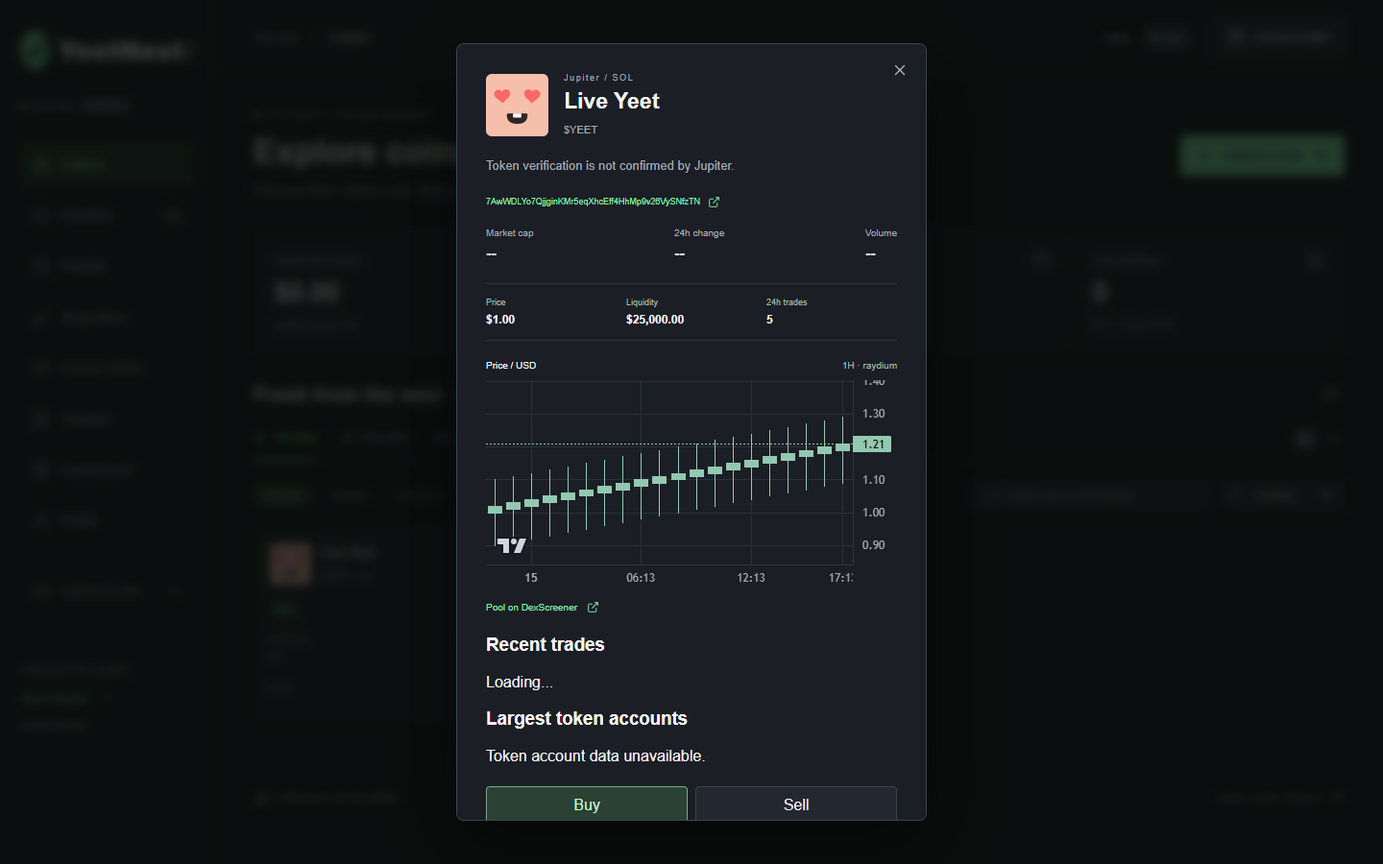
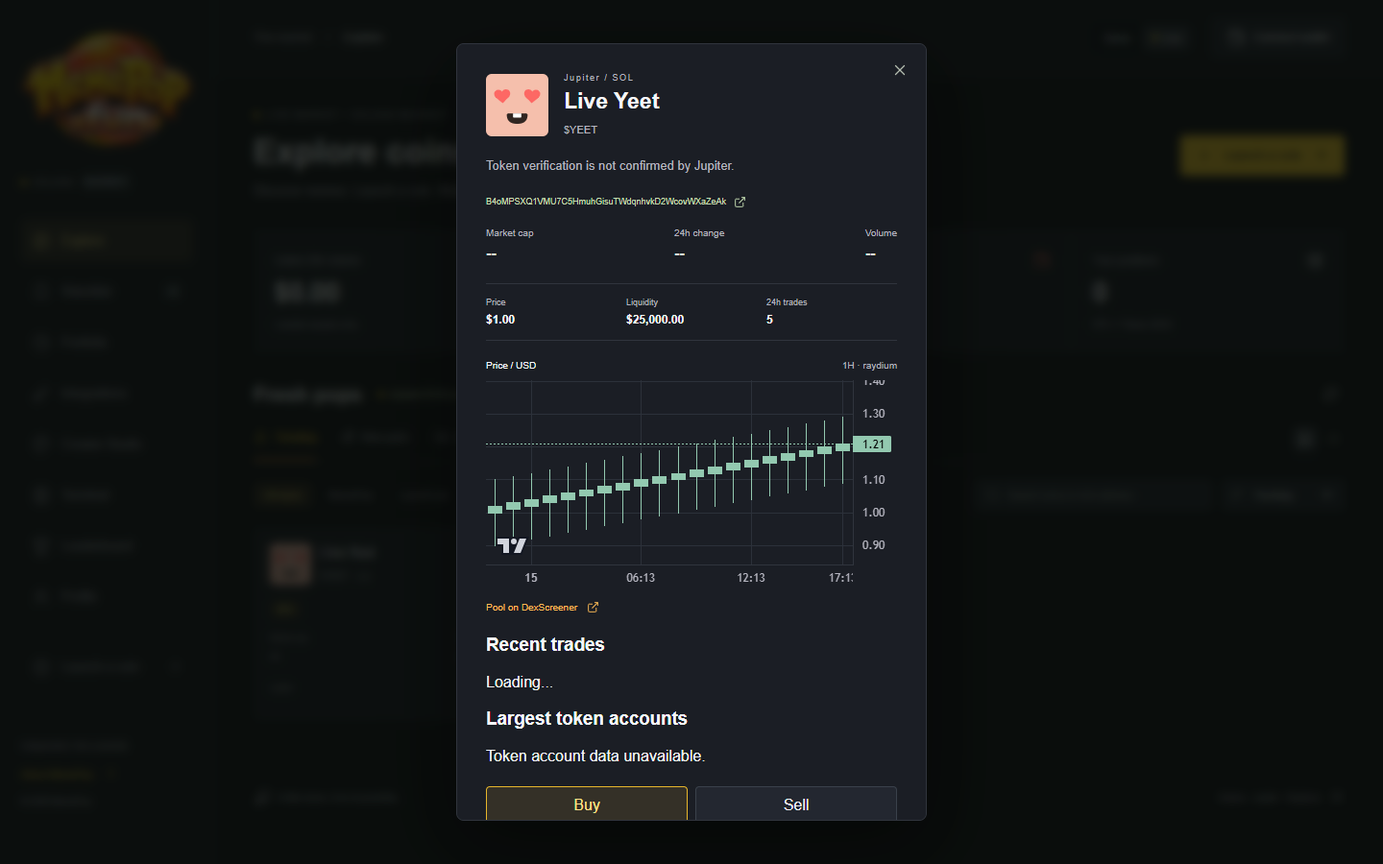
change to memepop

diff --git a/src/main.js b/src/main.js
@@ -1,4 +1,5 @@
 import { createIcons, icons } from "./ui-icons.js";
+import brandLogo from '../logo.png';
 import { createAvatar } from "@dicebear/core";
 import * as bottts from "@dicebear/bottts-neutral";
 import * as chain from "./chain.js";
@@ -51,7 +52,7 @@ let demoCoins = read(
       volume: t[5],
       progress: t[6],
       art: t[7],
-      description: "A meme with a mission. Welcome to the nest.",
+      description: "A meme with a mission. Welcome to MemePop.",
     })),
   ),
 );
@@ -160,7 +161,7 @@ function filtered() {
             .toLowerCase()
             .includes(query.toLowerCase())) &&
         (category === "All coins" ||
-          (mode === 'live' && category === 'YeetNest' && t.source === 'YeetNest') ||
+          (mode === 'live' && category === 'MemePop' && t.source === 'MemePop') ||
           (mode === 'live' && category === 'LaunchLab' && Boolean(t.poolId)) ||
           (mode === 'live' && category === 'Market' && !t.poolId) ||
           (mode === 'demo' && (category === "Stocks"
@@ -191,7 +192,7 @@ function render() {
     volume = coins.reduce((sum, c) => sum + (c.volume || 0), 0),
     address = chain.publicKey?.toBase58();
   document.querySelector("#app").innerHTML =
-    `<aside class="sidebar"><a class="brand" href="#" aria-label="YeetNest home"><span class="brand-mark">${I("bird")}</span><span>YeetNest<span class="brand-dot">/</span></span></a><div class="network"><span class="live-dot"></span> SOLANA <b>MAINNET</b></div><nav>${[
+    `<aside class="sidebar"><a class="brand" href="#" aria-label="MemePop home"><img class="brand-logo" src="${brandLogo}" alt="MemePop" width="180" height="120"/></a><div class="network"><span class="live-dot"></span> SOLANA <b>MAINNET</b></div><nav>${[
       ["Explore", "compass"],
       ["Watchlist", "bookmark"],
       ["Portfolio", "chart-pie"],
@@ -203,11 +204,11 @@ function render() {
       )
       .join(
         "",
-      )}<button class="nav-item" data-launch title="Launch a coin">${I("circle-plus")}<span>Launch a coin</span>${I("arrow-up-right")}</button></nav><div class="sidebar-note"><span class="little-egg">${I("egg")}</span><h3>Small beginnings.<br>Big yeet energy.</h3><p>Your next idea belongs here.</p><button data-launch>Build your nest ${I("arrow-up-right")}</button></div><div class="sidebar-bottom"><span>Independent. Non-custodial.</span><button id="help">About YeetNest ${I("arrow-up-right")}</button><span>© 2026 YeetNest</span></div></aside><main><header><div class="breadcrumb">The nest <span>/</span> <b>${page}</b></div><div class="header-right"><div class="mode-switch" aria-label="Trading environment"><button data-mode="demo" class="${mode === "demo" ? "active" : ""}">Demo</button><button data-mode="live" class="${mode === "live" ? "active" : ""}"><span class="live-dot"></span> Live</button></div><button class="wallet" id="wallet">${I("wallet")} ${connected() ? (mode === "demo" ? `${demoBalance.toFixed(2)} SOL · Demo` : esc(short(address))) : "Connect wallet"}</button></div></header><div class="content">${
+      )}<button class="nav-item" data-launch title="Launch a coin">${I("circle-plus")}<span>Launch a coin</span>${I("arrow-up-right")}</button></nav><div class="sidebar-note"><span class="little-egg">${I("egg")}</span><h3>Small beginnings.<br>Big yeet energy.</h3><p>Your next idea belongs here.</p><button data-launch>Build your nest ${I("arrow-up-right")}</button></div><div class="sidebar-bottom"><span>Independent. Non-custodial.</span><button id="help">About MemePop ${I("arrow-up-right")}</button><span>© 2026 MemePop</span></div></aside><main><header><div class="breadcrumb">The market <span>/</span> <b>${page}</b></div><div class="header-right"><div class="mode-switch" aria-label="Trading environment"><button data-mode="demo" class="${mode === "demo" ? "active" : ""}">Demo</button><button data-mode="live" class="${mode === "live" ? "active" : ""}"><span class="live-dot"></span> Live</button></div><button class="wallet" id="wallet">${I("wallet")} ${connected() ? (mode === "demo" ? `${demoBalance.toFixed(2)} SOL · Demo` : esc(short(address))) : "Connect wallet"}</button></div></header><div class="content">${
       page === "Integrations"
         ? integrations()
         : `
-  <div class="heading"><div><div class="eyebrow"><span class="live-dot"></span> ${mode === "demo" ? "DEMO NEST / SAMPLE MARKET" : "LIVE NEST / SOLANA MAINNET"}</div><h1>${page === "Explore" ? "Where memes take flight." : page === "Watchlist" ? "On your radar." : "Your nest egg."}</h1><p>${page === "Explore" ? "Find your flock. Hatch a coin. Make your move." : page === "Watchlist" ? "The coins you are keeping close." : mode === "live" ? "On-chain balances from your connected wallet." : "Your demo positions, all in one place."}</p></div><button class="primary" data-launch>${I("plus")} Launch a coin ${I("arrow-up-right")}</button></div>
+  <div class="heading"><div><div class="eyebrow"><span class="live-dot"></span> ${mode === "demo" ? "DEMO MARKET / SAMPLE MARKET" : "LIVE MARKET / SOLANA MAINNET"}</div><h1>${page === "Explore" ? "Find your next big pop." : page === "Watchlist" ? "On your radar." : "Your portfolio."}</h1><p>${page === "Explore" ? "Discover memes. Launch a coin. Make your move." : page === "Watchlist" ? "The coins you are keeping close." : mode === "live" ? "On-chain balances from your connected wallet." : "Your demo positions, all in one place."}</p></div><button class="primary" data-launch>${I("plus")} Launch a coin ${I("arrow-up-right")}</button></div>
   <section class="stats">${[
     [
       "Listed 24h volume",
@@ -216,9 +217,9 @@ function render() {
       "chart-no-axes-combined",
     ],
     [
-      "Coins in the nest",
+      "Listed coins",
       String(coins.length),
-      mode === "demo" ? "Demo catalogue" : "Jupiter + YeetNest launches",
+      mode === "demo" ? "Demo catalogue" : "Jupiter + MemePop launches",
       "egg",
     ],
     [
@@ -243,8 +244,8 @@ function render() {
         `<div class="stat"><div>${a}${I(d)}</div><strong>${b}</strong><span>${c}</span></div>`,
     )
     .join("")}</section>
-  ${page === "Explore" ? `<section class="feature"><div class="feature-copy"><span class="label">${mode === "demo" ? "FROM THE NEST" : "MARKET SPOTLIGHT"}</span><h2>${spotlight ? esc(spotlight.name) : "Ready for takeoff."}</h2><p>${mode === "demo" ? "One small meme. A whole new flock." : spotlight ? `${esc(spotlight.source)} · ${spotlight.verified ? "Verified token" : "Check the mint address"}` : "Explore on-chain coins or hatch your own."}</p><button id="spotlight">${spotlight ? `Explore $${esc(spotlight.ticker)}` : "Explore live coins"} ${I("arrow-up-right")}</button></div><div class="feature-art">${spotlight ? art(spotlight) : `<div class="empty-art">${I("egg")}</div>`}<span class="floating-tag tag-one">${I("feather")} JUST HATCHED</span><span class="floating-tag tag-two">${spotlight?.change != null ? `${spotlight.change > 0 ? "+" : ""}${spotlight.change.toFixed(2)}%` : "YEETNEST"} ${I("arrow-up-right")}</span></div><div class="feature-market"><span class="label">${spotlight?.cap != null ? "MARKET CAP" : "YOUR NEXT LAUNCH"}</span><strong>${spotlight?.cap != null ? money(spotlight.cap) : "Starts here."}</strong><p>${mode === "demo" ? "Sample market" : "Provider market data"}</p><div class="nest-lines">${I("bird")}${I("move-up-right")}</div><span class="paired">${spotlight?.mint ? `<a href="https://solscan.io/token/${esc(spotlight.mint)}" target="_blank" rel="noopener noreferrer">${esc(short(spotlight.mint))} ${I("external-link")}</a>` : "Hatch something worth watching."}</span></div></section>` : ""}
-<section class="market"><div class="market-heading"><h2>${page === "Explore" ? "Fresh from the nest" : page}</h2><span class="live-label"><span class="live-dot"></span> ${mode === "demo" ? "Sample market" : lastUpdated ? `Updated ${new Date(lastUpdated).toLocaleTimeString([], { hour: "2-digit", minute: "2-digit" })}` : "Provider data"}</span><button id="refresh" class="icon-button" title="Refresh market">${I("refresh-cw")}</button></div><div class="tabs">${["Trending", "New pairs", "About to graduate", "Graduated"].map((n) => `<button class="${tab === n ? "selected" : ""}" data-tab="${n}">${I(n === "Trending" ? "flame" : n === "New pairs" ? "sparkles" : n === "About to graduate" ? "graduation-cap" : "badge-check")}${n}</button>`).join("")}<div class="view-switch"><button data-view="grid" title="Grid view" class="${view === "grid" ? "selected" : ""}">${I("layout-grid")}</button><button data-view="list" title="List view" class="${view === "list" ? "selected" : ""}">${I("list")}</button></div></div><div class="filters"><div class="categories">${(mode === "live" ? ["All coins", "YeetNest", "LaunchLab", "Market"] : ["All coins", "Stocks", "Crypto", "Pre-IPO"]).map((n) => `<button data-category="${n}" class="${category === n ? "chosen" : ""}">${n}</button>`).join("")}</div><div class="search-sort"><label class="search">${I("search")}<input id="search" aria-label="Search coins" placeholder="Search coins or mint address" value="${esc(query)}"/></label><label class="sort">${I("arrow-down-wide-narrow")}<select id="sort" aria-label="Sort coins"><option>Trending</option><option>Market cap</option><option>Volume</option><option>Top gainers</option></select></label></div></div>${liveError && mode === "live" ? `<div class="notice error">${I("circle-alert")}<span>${esc(liveError)}</span><button id="retry">Retry</button></div>` : ""}${mode === "live" && page === "Portfolio" && !chain.publicKey ? `<div class="notice">${I("wallet")} Connect a wallet to load your real holdings.</div>` : ""}<div id="coins" class="coins ${view}"></div></section>`
+  ${page === "Explore" ? `<section class="feature"><div class="feature-copy"><span class="label">${mode === "demo" ? "FROM THE NEST" : "MARKET SPOTLIGHT"}</span><h2>${spotlight ? esc(spotlight.name) : "Ready for takeoff."}</h2><p>${mode === "demo" ? "One small meme. A whole new flock." : spotlight ? `${esc(spotlight.source)} · ${spotlight.verified ? "Verified token" : "Check the mint address"}` : "Explore on-chain coins or hatch your own."}</p><button id="spotlight">${spotlight ? `Explore $${esc(spotlight.ticker)}` : "Explore live coins"} ${I("arrow-up-right")}</button></div><div class="feature-art">${spotlight ? art(spotlight) : `<div class="empty-art">${I("egg")}</div>`}<span class="floating-tag tag-one">${I("feather")} JUST HATCHED</span><span class="floating-tag tag-two">${spotlight?.change != null ? `${spotlight.change > 0 ? "+" : ""}${spotlight.change.toFixed(2)}%` : "MEMEPOP"} ${I("arrow-up-right")}</span></div><div class="feature-market"><span class="label">${spotlight?.cap != null ? "MARKET CAP" : "YOUR NEXT LAUNCH"}</span><strong>${spotlight?.cap != null ? money(spotlight.cap) : "Starts here."}</strong><p>${mode === "demo" ? "Sample market" : "Provider market data"}</p><div class="nest-lines">${I("bird")}${I("move-up-right")}</div><span class="paired">${spotlight?.mint ? `<a href="https://solscan.io/token/${esc(spotlight.mint)}" target="_blank" rel="noopener noreferrer">${esc(short(spotlight.mint))} ${I("external-link")}</a>` : "Hatch something worth watching."}</span></div></section>` : ""}
+<section class="market"><div class="market-heading"><h2>${page === "Explore" ? "Fresh pops" : page}</h2><span class="live-label"><span class="live-dot"></span> ${mode === "demo" ? "Sample market" : lastUpdated ? `Updated ${new Date(lastUpdated).toLocaleTimeString([], { hour: "2-digit", minute: "2-digit" })}` : "Provider data"}</span><button id="refresh" class="icon-button" title="Refresh market">${I("refresh-cw")}</button></div><div class="tabs">${["Trending", "New pairs", "About to graduate", "Graduated"].map((n) => `<button class="${tab === n ? "selected" : ""}" data-tab="${n}">${I(n === "Trending" ? "flame" : n === "New pairs" ? "sparkles" : n === "About to graduate" ? "graduation-cap" : "badge-check")}${n}</button>`).join("")}<div class="view-switch"><button data-view="grid" title="Grid view" class="${view === "grid" ? "selected" : ""}">${I("layout-grid")}</button><button data-view="list" title="List view" class="${view === "list" ? "selected" : ""}">${I("list")}</button></div></div><div class="filters"><div class="categories">${(mode === "live" ? ["All coins", "MemePop", "LaunchLab", "Market"] : ["All coins", "Stocks", "Crypto", "Pre-IPO"]).map((n) => `<button data-category="${n}" class="${category === n ? "chosen" : ""}">${n}</button>`).join("")}</div><div class="search-sort"><label class="search">${I("search")}<input id="search" aria-label="Search coins" placeholder="Search coins or mint address" value="${esc(query)}"/></label><label class="sort">${I("arrow-down-wide-narrow")}<select id="sort" aria-label="Sort coins"><option>Trending</option><option>Market cap</option><option>Volume</option><option>Top gainers</option></select></label></div></div>${liveError && mode === "live" ? `<div class="notice error">${I("circle-alert")}<span>${esc(liveError)}</span><button id="retry">Retry</button></div>` : ""}${mode === "live" && page === "Portfolio" && !chain.publicKey ? `<div class="notice">${I("wallet")} Connect a wallet to load your real holdings.</div>` : ""}<div id="coins" class="coins ${view}"></div></section>`
     }<footer><span>${I("feather")} A little chaos. A lot of possibility.</span><span>${mode === "demo" ? "Demo environment" : "Solana · Jupiter · Raydium"} ${I("arrow-up-right")}</span></footer></div></main><div id="modal-root"></div><div id="toast" role="status"></div>`;
   if (page !== "Integrations") {
     document.querySelector("#sort").value = sort;
@@ -327,7 +328,7 @@ const parity = [
   [
     "Fee / launch customization",
     "Unfinished",
-    "YeetNest platform config, selectable fees, initial buy / bundles",
+    "MemePop platform config, selectable fees, initial buy / bundles",
   ],
   [
     "Buyback / burn flywheel",
@@ -346,7 +347,7 @@ const parity = [
   ],
 ];
 function integrations() {
-  return `<div class="heading"><div><div class="eyebrow">CONNECTED INFRASTRUCTURE</div><h1>The foundations of the nest.</h1><p>Provider status and feature availability.</p></div><button class="primary" id="check-status">${I("refresh-cw")} Check status</button></div><div class="provider-grid">${[
+  return `<div class="heading"><div><div class="eyebrow">CONNECTED INFRASTRUCTURE</div><h1>Connected infrastructure.</h1><p>Provider status and feature availability.</p></div><button class="primary" id="check-status">${I("refresh-cw")} Check status</button></div><div class="provider-grid">${[
     [
       "Jupiter",
       "Swaps + token discovery",
@@ -384,7 +385,7 @@ function integrations() {
     )
     .join(
       "",
-    )}</div><section class="parity"><h2>StonkFun feature parity</h2><p>Reference access is incomplete. These gaps are based on published launch documentation, not a full audit of StonkFun.</p><div class="table-wrap"><table><thead><tr><th>Feature</th><th>YeetNest status</th><th>Remaining work</th></tr></thead><tbody>${parity.map(([a, b, c]) => `<tr><td>${a}</td><td><span class="status-pill ${b === "Unfinished" ? "pending" : ""}">${b}</span></td><td>${c}</td></tr>`).join("")}</tbody></table></div><a class="source-link" href="https://docs.sumo.trade/launch-tokens/stonkfun-launch" target="_blank" rel="noopener noreferrer">Published StonkFun launch documentation ${I("external-link")}</a></section>`;
+    )}</div><section class="parity"><h2>StonkFun feature parity</h2><p>Reference access is incomplete. These gaps are based on published launch documentation, not a full audit of StonkFun.</p><div class="table-wrap"><table><thead><tr><th>Feature</th><th>MemePop status</th><th>Remaining work</th></tr></thead><tbody>${parity.map(([a, b, c]) => `<tr><td>${a}</td><td><span class="status-pill ${b === "Unfinished" ? "pending" : ""}">${b}</span></td><td>${c}</td></tr>`).join("")}</tbody></table></div><a class="source-link" href="https://docs.sumo.trade/launch-tokens/stonkfun-launch" target="_blank" rel="noopener noreferrer">Published StonkFun launch documentation ${I("external-link")}</a></section>`;
 }
 let discoveryPage = 0;
 function drawCoins() {
@@ -402,7 +403,7 @@ function drawCoins() {
         return `<article class="coin" data-coin="${esc(t.id)}" tabindex="0" aria-label="Open ${esc(t.name)}"><div class="coin-top">${art(t)}<div class="coin-title"><h3 title="${esc(t.name)}">${esc(t.name)}</h3><span>$${esc(t.ticker)} <span class="age">${mode === "demo" ? "Demo" : t.verified ? "Verified" : "Live"}</span></span></div><button class="save ${watchlist.includes(String(t.id)) ? "saved" : ""}" data-save="${esc(t.id)}" title="${watchlist.includes(String(t.id)) ? "Remove from" : "Add to"} watchlist">${I("bookmark")}</button></div><div class="pair-row"><span class="pair">${t.poolId ? "LAUNCHLAB" : esc(t.pair)}</span><span class="change ${t.change < 0 ? "negative" : ""}">${t.change == null ? "--" : `${t.change > 0 ? "+" : ""}${t.change.toFixed(2)}%`}${I(t.change < 0 ? "trending-down" : "trending-up")}</span></div><div class="coin-numbers"><div><span>Market cap</span><b>${money(t.cap)}</b></div><div><span>24h volume</span><b>${money(t.volume)}</b></div></div>${page === "Portfolio" && holding ? `<div class="holding">${mode === "demo" ? `${holding.amount.toFixed(4)} SOL allocated` : `${esc(fromUnits(holding.amount, holding.decimals))} ${esc(t.ticker)}`}</div>` : `<div class="curve-label"><span>${t.progress == null ? esc(t.source || "Sample") : "Bonding curve"}</span><b>${t.progress == null ? I("arrow-up-right") : `${t.progress.toFixed(0)}%`}</b></div>${t.progress != null ? `<div class="progress"><span style="width:${Math.min(t.progress, 100)}%"></span></div>` : ""}`}</article>`;
       })
       .join("") ||
-    `<div class="empty">${I(loading ? "loader-circle" : "egg")}<h3>${loading ? "Loading the nest..." : page === "Portfolio" ? "Your nest is waiting." : "Nothing in this nest yet."}</h3><p>${loading ? "Fetching provider data." : mode === "live" && tab !== "Trending" && tab !== "New pairs" ? "Graduation filters cover registered YeetNest LaunchLab coins only." : "Try another search, or hatch something new."}</p></div>`;
+    `<div class="empty">${I(loading ? "loader-circle" : "egg")}<h3>${loading ? "Loading MemePop..." : page === "Portfolio" ? "Your portfolio is waiting." : "No coins here yet."}</h3><p>${loading ? "Fetching provider data." : mode === "live" && tab !== "Trending" && tab !== "New pairs" ? "Graduation filters cover registered MemePop LaunchLab coins only." : "Try another search, or launch something new."}</p></div>`;
   document.querySelectorAll("[data-coin]").forEach((el) => {
     el.onclick = () => detail(el.dataset.coin);
     el.onkeydown = (e) => {
@@ -519,7 +520,7 @@ function bind() {
   document.querySelector("#wallet").onclick = walletModal;
   document.querySelector("#help").onclick = () =>
     modal(
-      `<span class="eyebrow">HELLO, YEETNEST</span><h2>A home for your next meme.</h2><p>Demo coins and balances stay in this browser. Live transactions use Solana mainnet and require your wallet signature. Creator image updates change the YeetNest listing; the original on-chain metadata remains unchanged.</p><button class="primary full" id="see-integrations">View integrations</button>`,
+      `<span class="eyebrow">HELLO, MEMEPOP</span><h2>A home for your next meme.</h2><p>Demo coins and balances stay in this browser. Live transactions use Solana mainnet and require your wallet signature. Creator image updates change the MemePop listing; the original on-chain metadata remains unchanged.</p><button class="primary full" id="see-integrations">View integrations</button>`,
       () => {
         document.querySelector("#see-integrations").onclick = () => {
           page = "Integrations";
@@ -685,7 +686,7 @@ function inlineError(error) {
 function walletModal() {
   if (connected()) {
     modal(
-      `<span class="eyebrow">${mode === "demo" ? "DEMO WALLET" : "LIVE WALLET"}</span><h2>Your nest egg.</h2><p class="address">${mode === "demo" ? "Local demo wallet" : esc(chain.publicKey.toBase58())}</p><div class="wallet-balance">${mode === "demo" ? demoBalance.toFixed(4) : solBalance == null ? "--" : solBalance.toFixed(4)} <span>SOL</span></div><button class="secondary full" id="disconnect">Disconnect</button>`,
+      `<span class="eyebrow">${mode === "demo" ? "DEMO WALLET" : "LIVE WALLET"}</span><h2>Your portfolio.</h2><p class="address">${mode === "demo" ? "Local demo wallet" : esc(chain.publicKey.toBase58())}</p><div class="wallet-balance">${mode === "demo" ? demoBalance.toFixed(4) : solBalance == null ? "--" : solBalance.toFixed(4)} <span>SOL</span></div><button class="secondary full" id="disconnect">Disconnect</button>`,
       () => {
         document.querySelector("#disconnect").onclick = async () => {
           if (mode === "demo") demoWallet = false;
@@ -723,7 +724,7 @@ function walletModal() {
             const QRCode = await import('qrcode');
             const image = await QRCode.default.toDataURL(link, { width: 224, margin: 2, errorCorrectionLevel: 'M' });
             if (!root.isConnected) return;
-            root.innerHTML = `<h3>${esc(button.dataset.phoneWallet)} on phone</h3><span class="status-pill">Phone session</span><img class="wallet-qr" src="${image}" alt="Open YeetNest in ${esc(button.dataset.phoneWallet)} on your phone"/><a class="source-link" href="${esc(link)}" rel="noopener noreferrer">Open ${esc(button.dataset.phoneWallet)} ${I('arrow-up-right')}</a>`;
+            root.innerHTML = `<h3>${esc(button.dataset.phoneWallet)} on phone</h3><span class="status-pill">Phone session</span><img class="wallet-qr" src="${image}" alt="Open MemePop in ${esc(button.dataset.phoneWallet)} on your phone"/><a class="source-link" href="${esc(link)}" rel="noopener noreferrer">Open ${esc(button.dataset.phoneWallet)} ${I('arrow-up-right')}</a>`;
             createIcons({ icons });
           } catch(e) { if (root.isConnected) error.textContent = e.message; }
           finally { button.disabled = false; }
@@ -942,7 +943,7 @@ function launch() {
 }
 function reviewLaunch(prepared, metadata, d) {
   modal(
-    `<span class="eyebrow">LIVE LAUNCH / REVIEW</span><h2>Ready to leave the nest?</h2><div class="detail-heading"><img src="${esc(metadata.image)}" alt="${esc(d.name)}"/><div><h3>${esc(d.name)}</h3><span>$${esc(d.ticker.toUpperCase())}</span></div></div><div class="launch-terms"><span>Network <b>Solana mainnet</b></span><span>Supply <b>${prepared.supply}</b></span><span>Transactions <b>${prepared.transactions}</b></span><span>Initial buy <b>None</b></span></div><p class="address">Mint: ${esc(prepared.mint)}</p><p class="fine">Review transactions and network fees in your wallet. Raydium's default platform economics apply. Wallet confirmation submits a real token launch.</p><p class="form-error" id="form-error"></p><button class="primary full" id="sign-launch">${I("pen-line")} Sign and launch</button>`,
+    `<span class="eyebrow">LIVE LAUNCH / REVIEW</span><h2>Ready to make it pop?</h2><div class="detail-heading"><img src="${esc(metadata.image)}" alt="${esc(d.name)}"/><div><h3>${esc(d.name)}</h3><span>$${esc(d.ticker.toUpperCase())}</span></div></div><div class="launch-terms"><span>Network <b>Solana mainnet</b></span><span>Supply <b>${prepared.supply}</b></span><span>Transactions <b>${prepared.transactions}</b></span><span>Initial buy <b>None</b></span></div><p class="address">Mint: ${esc(prepared.mint)}</p><p class="fine">Review transactions and network fees in your wallet. Raydium's default platform economics apply. Wallet confirmation submits a real token launch.</p><p class="form-error" id="form-error"></p><button class="primary full" id="sign-launch">${I("pen-line")} Sign and launch</button>`,
     () => {
       document.querySelector("#sign-launch").onclick = async (e) => {
         const b = e.currentTarget;
@@ -1017,7 +1018,7 @@ function detail(id) {
       : coin.creator && coin.creator === chain.publicKey?.toBase58();
   let side = "Buy";
   modal(
-    `<div class="detail-heading">${art(coin)}<div><span class="eyebrow">${mode === "demo" ? "DEMO COIN" : esc(coin.source || "SOLANA")} / ${esc(coin.pair)}</span><h2>${esc(coin.name)}</h2><span class="muted">$${esc(coin.ticker)}</span></div>${owns ? `<button class="icon-button" id="edit-art" title="Change coin artwork">${I("image-plus")}</button>` : ""}</div><p class="coin-description">${esc(coin.description || "Welcome to the nest.")}</p>${coin.mint ? `<a class="mint-address" href="https://solscan.io/token/${esc(coin.mint)}" target="_blank" rel="noopener noreferrer">${esc(coin.mint)} ${I("external-link")}</a>` : ""}<div class="detail-stats"><span>Market cap<b>${money(coin.cap)}</b></span><span>24h change<b class="change ${coin.change < 0 ? "negative" : ""}">${coin.change == null ? "--" : `${coin.change.toFixed(2)}%`}</b></span><span>Volume<b>${money(coin.volume)}</b></span></div>${coin.progress != null ? `<div class="curve-summary"><span>Bonding curve</span><b>${coin.progress.toFixed(0)}%</b><div class="progress"><span style="width:${coin.progress}%"></span></div></div>` : ""}<form id="trade-form"><div class="trade-tabs"><button type="button" class="selected" data-side="Buy">Buy</button><button type="button" data-side="Sell">Sell</button></div><label id="amount-label"><span>Amount (SOL)</span><input name="amount" inputmode="decimal" placeholder="0.00" required pattern="[0-9]+([.][0-9]+)?"/></label><div class="quick-amounts">${[0.1, 0.5, 1, 2].map((n) => `<button type="button" data-amount="${n}">${n}</button>`).join("")}</div><p class="fine">${mode === "demo" ? "Simulated trade. No funds are transferred." : coin.poolId ? "Raydium bonding curve until graduation; Jupiter routing afterwards." : "Live Jupiter routing. Review the quote before signing."}</p><p class="form-error" id="form-error" role="alert"></p><button class="primary full" type="submit" id="trade-submit">${connected() ? (mode === "demo" ? `Demo buy $${esc(coin.ticker)}` : "Get live quote") : "Connect wallet"}</button></form>`,
+    `<div class="detail-heading">${art(coin)}<div><span class="eyebrow">${mode === "demo" ? "DEMO COIN" : esc(coin.source || "SOLANA")} / ${esc(coin.pair)}</span><h2>${esc(coin.name)}</h2><span class="muted">$${esc(coin.ticker)}</span></div>${owns ? `<button class="icon-button" id="edit-art" title="Change coin artwork">${I("image-plus")}</button>` : ""}</div><p class="coin-description">${esc(coin.description || "Welcome to MemePop.")}</p>${coin.mint ? `<a class="mint-address" href="https://solscan.io/token/${esc(coin.mint)}" target="_blank" rel="noopener noreferrer">${esc(coin.mint)} ${I("external-link")}</a>` : ""}<div class="detail-stats"><span>Market cap<b>${money(coin.cap)}</b></span><span>24h change<b class="change ${coin.change < 0 ? "negative" : ""}">${coin.change == null ? "--" : `${coin.change.toFixed(2)}%`}</b></span><span>Volume<b>${money(coin.volume)}</b></span></div>${coin.progress != null ? `<div class="curve-summary"><span>Bonding curve</span><b>${coin.progress.toFixed(0)}%</b><div class="progress"><span style="width:${coin.progress}%"></span></div></div>` : ""}<form id="trade-form"><div class="trade-tabs"><button type="button" class="selected" data-side="Buy">Buy</button><button type="button" data-side="Sell">Sell</button></div><label id="amount-label"><span>Amount (SOL)</span><input name="amount" inputmode="decimal" placeholder="0.00" required pattern="[0-9]+([.][0-9]+)?"/></label><div class="quick-amounts">${[0.1, 0.5, 1, 2].map((n) => `<button type="button" data-amount="${n}">${n}</button>`).join("")}</div><p class="fine">${mode === "demo" ? "Simulated trade. No funds are transferred." : coin.poolId ? "Raydium bonding curve until graduation; Jupiter routing afterwards." : "Live Jupiter routing. Review the quote before signing."}</p><p class="form-error" id="form-error" role="alert"></p><button class="primary full" type="submit" id="trade-submit">${connected() ? (mode === "demo" ? `Demo buy $${esc(coin.ticker)}` : "Get live quote") : "Connect wallet"}</button></form>`,
     () => {
       if (owns)
         document.querySelector("#edit-art").onclick = () => editArtwork(coin);
@@ -1156,7 +1157,7 @@ function transactionResult(title, signature, mint) {
 function editArtwork(coin) {
   let uploaded = "";
   modal(
-    `<span class="eyebrow">CREATOR STUDIO</span><h2>Give your coin a new look.</h2><form id="image-form"><label class="upload-control"><span class="upload-preview" id="upload-preview">${art(coin)}</span><span>New coin artwork<small>PNG, JPEG, WebP, GIF · up to 5 MB</small></span><input type="file" id="coin-image" accept="image/png,image/jpeg,image/webp,image/gif" required/></label><p class="fine">${mode === "demo" ? "Updates this browser’s demo listing." : "Only your creator wallet can update this YeetNest listing. Original on-chain metadata stays unchanged."}</p><p class="form-error" id="form-error" role="alert"></p><button class="primary full" type="submit">${I("image")} Save artwork</button></form>`,
+    `<span class="eyebrow">CREATOR STUDIO</span><h2>Give your coin a new look.</h2><form id="image-form"><label class="upload-control"><span class="upload-preview" id="upload-preview">${art(coin)}</span><span>New coin artwork<small>PNG, JPEG, WebP, GIF · up to 5 MB</small></span><input type="file" id="coin-image" accept="image/png,image/jpeg,image/webp,image/gif" required/></label><p class="fine">${mode === "demo" ? "Updates this browser’s demo listing." : "Only your creator wallet can update this MemePop listing. Original on-chain metadata stays unchanged."}</p><p class="form-error" id="form-error" role="alert"></p><button class="primary full" type="submit">${I("image")} Save artwork</button></form>`,
     () => {
       document.querySelector("#coin-image").onchange = async (e) => {
         try {
@@ -1221,7 +1222,7 @@ document.addEventListener(
     img.dataset.fallback = "true";
     img.title = "Artwork unavailable from the provider";
     img.src = createAvatar(bottts, {
-      seed: img.alt || "YeetNest",
+      seed: img.alt || "MemePop",
       backgroundColor: ["f5bfac"],
     }).toDataUri();
   },

diff --git a/src/pump-theme.css b/src/pump-theme.css
@@ -1,26 +1,26 @@
 :root {
   --ink: #f5f6f8;
-  --muted: #a4a9b3;
+  --muted: #b4b4bf;
   --line: #30343d;
-  --coral: #86efac;
-  --teal: #86efac;
+  --coral: #ffd52a;
+  --teal: #ffd52a;
   --surface: #1b1e25;
   --surface-raised: #242831;
   --chart-grid: #2c313a;
-  background: #13151a;
+  background: #111216;
   color: var(--ink);
 }
-.sidebar, header { background: #17191f; border-color: var(--line); }
-.brand-mark, .little-egg { background: #86efac; color: #112019; }
+.sidebar, header { background: #17181d; border-color: var(--line); }
+.brand-mark, .little-egg { background: #ffd52a; color: #171310; }
 .brand-dot, .source-link, .provider a, .sidebar-bottom button,
 .sidebar-note button, .tabs > button.selected, .save.saved,
-.coin-socials a, .feature-copy button { color: #86efac; }
-.nav-item.active, .nav-item.active:hover { background: #24362d; color: #a4f8bf; }
+.coin-socials a, .feature-copy button { color: #ffd52a; }
+.nav-item.active, .nav-item.active:hover { background: #34302a; color: #ffe88b; }
 .nav-item:hover { background: #262a32; }
 .nav-item small, .nav-item.active small, .network b { background: #2c3336; color: #d4dce1; }
-.network .live-dot, .mode-switch .live-dot { background: #86efac; }
-.primary, .creator-actions .primary { background: #86efac; color: #102017; }
-.primary:hover { background: #b0f7ca; }
+.network .live-dot, .mode-switch .live-dot { background: #ffd52a; }
+.primary, .creator-actions .primary { background: #ffd52a; color: #171310; }
+.primary:hover { background: #ffe56d; }
 .wallet, .secondary, .search, .sort, .sort select, .wallet-option,
 .quick-amounts button, .trade-tabs button, .creator-actions .secondary {
   background: #232730; border-color: #3a414b; color: var(--ink);
@@ -40,18 +40,18 @@
 }
 .coin:hover { background: #242933; border-color: #566070; }
 .coin .progress, .curve-summary .progress { background: #353b45; }
-.coin:nth-child(n) .progress span, .progress span { background: #86efac; }
+.coin:nth-child(n) .progress span, .progress span { background: #ffd52a; }
 .pair, .coin:nth-child(2n) .pair, .categories .chosen {
-  background: #273b30; color: #a0f0b9;
+  background: #332d22; color: #ffe077;
 }
-.change, .holding, .mint-address, .curve-label b, .live-label { color: #86efac; }
-.negative, .form-error { color: #fb939d; }
+.change, .holding, .mint-address, .curve-label b, .live-label { color: #ffd52a; }
+.negative, .form-error { color: #ff7c72; }
 .empty { background: #191d24; border-color: #3a424e; }
-.empty svg { color: #86efac; }
-.provider-icon, .provider:nth-child(n) .provider-icon { background: #29352e; color: #a4efbc; }
+.empty svg { color: #ffd52a; }
+.provider-icon, .provider:nth-child(n) .provider-icon { background: #302b26; color: #ffbb55; }
 .parity th { background: #252a33; color: #e0e5ed; }
 .parity td:last-child { color: var(--muted); }
-.status-pill { background: #293d31; color: #b2eccc; }
+.status-pill { background: #31352b; color: #c6deb3; }
 .status-pill.pending { background: #3a3225; color: #efcf97; }
 .modal { background: #1b1e25; border-color: #3d4550; }
 .modal input, .modal textarea, .modal select, .setup-fields input {
@@ -59,15 +59,15 @@
 }
 .modal input::placeholder, .modal textarea::placeholder,
 .setup-fields input::placeholder { color: #9ba3b0; }
-.trade-tabs .selected { background: #2b4133; border-color: #77ac87; color: #c2f7d2; }
-.upload-control, .upload-preview { background: #232c2a; border-color: #526c5d; }
-.upload-control small, .upload-preview svg { color: #bdcabc; }
-.creator-banner { background: #20332a; border-color: #3b5b47; }
-.creator-banner h2, .claim-amount { color: #b8f5cc; }
+.trade-tabs .selected { background: #343027; border-color: #e7b62c; color: #ffe18a; }
+.upload-control, .upload-preview { background: #26272b; border-color: #55525a; }
+.upload-control small, .upload-preview svg { color: #c7c4bc; }
+.creator-banner { background: #29282c; border-color: #514a42; }
+.creator-banner h2, .claim-amount { color: #ffdb57; }
 .notice, .health-check.unhealthy { background: #353026; border-color: #bba16e; color: #e4d0a9; }
 .notice.error { background: #3b252b; color: #ffbcc5; border-color: #cc7a88; }
-.success-mark, .health-check, .health-check.healthy { background: #25382c; color: #c6eacb; }
-#toast { background: #283d31; border-color: #5b8368; color: #e9f7ee; }
+.success-mark, .health-check, .health-check.healthy { background: #293229; color: #c6deb3; }
+#toast { background: #292b30; border-color: #827347; color: #fff5d3; }
 .count-badge { background: #2c323d; color: #cad6e7; }
 .coin h3 { font-size: 13px; }
 .terminal-search, #rank-by, .profile-form input, .profile-form textarea {
@@ -135,3 +135,27 @@
 #phone-wallet h3 { font-size: 18px; margin-bottom: 8px; }
 .wallet-qr { display: block; width: 224px; max-width: 100%; aspect-ratio: 1; margin: 12px auto; }
 .discovery-pagination { display: flex; align-items: center; justify-content: center; gap: 12px; margin-top: 16px; }
+
+/* Full wordmark stays uncropped at every navigation breakpoint. */
+.brand { width: 100%; justify-content: center; }
+.brand-logo { display: block; width: 180px; max-width: 100%; height: auto; aspect-ratio: 3 / 2; object-fit: contain; border-radius: 4px; }
+.stat:nth-child(1) svg { color: #ffd52a; }
+.stat:nth-child(2) svg { color: #ff9b38; }
+.stat:nth-child(3) svg { color: #ff7261; }
+.stat:nth-child(4) svg { color: #f5f6f8; }
+.coin:nth-child(3n + 2) .progress span { background: #ff9b38; }
+.coin:nth-child(3n) .progress span { background: #ff7261; }
+.tabs > button.selected:after { background: #ff9b38; }
+.coin-socials a, .provider a, .source-link { color: #ffbb55; }
+.live-label, .change, .holding, .mint-address, .curve-label b { color: #c6deb3; }
+.negative { color: #ff7c72; }
+.creator-banner .label, .creator-banner p, .health-check span { color: var(--muted); }
+.chart-header, .pool-metrics span { color: var(--muted); }
+.modal, .setup-section, .upload-control { border-color: var(--line); }
+@media (min-width: 601px) and (max-width: 950px) {
+  .brand-logo { width: 52px; }
+}
+@media (max-width: 600px) {
+  .brand { width: 126px; flex-shrink: 0; justify-content: flex-start; }
+  .brand-logo { width: 126px; }
+}

diff --git a/server/api.js b/server/api.js
@@ -369,7 +369,7 @@ export function createApi({
       const wallet = address(req.body.wallet);
       const nonce = randomBytes(24).toString("hex");
       const domain = text(req.headers.host || '', 255);
-      const message = `YeetNest creator sign-in\nDomain: ${domain}\nWallet: ${wallet}\nNonce: ${nonce}\nExpires: ${new Date(Date.now() + 300000).toISOString()}\nThis is a sign-in message, not a transaction.`;
+      const message = `MemePop creator sign-in\nDomain: ${domain}\nWallet: ${wallet}\nNonce: ${nonce}\nExpires: ${new Date(Date.now() + 300000).toISOString()}\nThis is a sign-in message, not a transaction.`;
       await security.put('challenge', nonce, { wallet, message, domain, expires: Date.now() + 300000 });
       res.json({ nonce, message });
     }),
@@ -618,7 +618,7 @@ export function createApi({
     const rows = await chainIndex.list({ query, status, offset, limit });
     const registered = new Map((await records()).map(coin => [coin.mint, coin]));
     const state = (await persisted.get('launchlab-indexer'))[0];
-    res.json({ coins: rows.map(row => ({ ...registered.get(row.mint), id: row.mint, mint: row.mint, poolId: row.pool, creator: row.creator, name: registered.get(row.mint)?.name || row.name || `${row.mint.slice(0, 4)}...${row.mint.slice(-4)}`, ticker: registered.get(row.mint)?.ticker || row.ticker || 'TOKEN', decimals: row.decimals, pair: 'SOL', uri: row.uri, source: registered.has(row.mint) ? 'YeetNest' : 'External LaunchLab', launchStatus: ['Trading', 'Migrating', 'Graduated'][row.status], progress: Number(row.target) > 0 ? Math.min(100, Number(row.raised) / Number(row.target) * 100) : 0, raised: row.raised, target: row.target, supplyRaw: row.supply, created: row.created === null ? null : Number(row.created), updatedAt: Number(row.updated), slot: Number(row.slot) })), available: true, hasMore: rows.length === limit, offset, indexedAt: state?.updatedAt || null, indexerError: state?.error || null, historyComplete: Boolean(state?.backfillComplete) });
+    res.json({ coins: rows.map(row => ({ ...registered.get(row.mint), id: row.mint, mint: row.mint, poolId: row.pool, creator: row.creator, name: registered.get(row.mint)?.name || row.name || `${row.mint.slice(0, 4)}...${row.mint.slice(-4)}`, ticker: registered.get(row.mint)?.ticker || row.ticker || 'TOKEN', decimals: row.decimals, pair: 'SOL', uri: row.uri, source: registered.has(row.mint) ? 'MemePop' : 'External LaunchLab', launchStatus: ['Trading', 'Migrating', 'Graduated'][row.status], progress: Number(row.target) > 0 ? Math.min(100, Number(row.raised) / Number(row.target) * 100) : 0, raised: row.raised, target: row.target, supplyRaw: row.supply, created: row.created === null ? null : Number(row.created), updatedAt: Number(row.updated), slot: Number(row.slot) })), available: true, hasMore: rows.length === limit, offset, indexedAt: state?.updatedAt || null, indexerError: state?.error || null, historyComplete: Boolean(state?.backfillComplete) });
   }));
   app.get('/api/curve/:mint', route(async (req, res) => {
     const mint = address(req.params.mint);
@@ -647,7 +647,7 @@ export function createApi({
         const target = Number(pool.totalFundRaisingB.toString());
         return {
           ...coin,
-          source: 'YeetNest',
+          source: 'MemePop',
           progress:
             target > 0
               ? Math.min(100, (Number(pool.realB.toString()) / target) * 100)

diff --git a/tests/ui/launchpad.spec.js b/tests/ui/launchpad.spec.js
@@ -70,6 +70,23 @@ test('launch preparation timeout keeps completed metadata and ignores late RPC c
   await expect(page.locator('#sign-launch')).toHaveCount(0);
 });
 
+test('MemePop uses the supplied logo and its palette without responsive overflow', async ({ page }) => {
+  await page.goto('/');
+  await expect(page).toHaveTitle(/MemePop/);
+  await expect(page.getByRole('link', { name: 'MemePop home' })).toBeVisible();
+  const logo = page.locator('.brand-logo');
+  await expect(logo).toHaveAttribute('alt', 'MemePop');
+  await expect.poll(() => logo.evaluate(img => img.complete && img.naturalWidth > 0)).toBe(true);
+  expect(await page.locator('.primary').first().evaluate(button => getComputedStyle(button).backgroundColor)).toBe('rgb(255, 213, 42)');
+  for (const width of [1440, 768, 390]) {
+    await page.setViewportSize({ width, height: 900 });
+    await expect(logo).toBeVisible();
+    expect(await logo.evaluate(img => Math.abs(img.clientWidth / img.clientHeight - 1.5) < .05)).toBe(true);
+    expect(await page.evaluate(() => document.documentElement.scrollWidth <= innerWidth)).toBe(true);
+    await page.screenshot({ path: `memepop-${width}.png`, fullPage: true });
+  }
+});
+
 test('live candles render and creator studio is usable on desktop and mobile', async ({ page }) => {
   const mint = Keypair.generate().publicKey.toBase58();
   await page.route('**/api/tokens*', r => r.fulfill({ json: [{ id: mint, name: 'Live Yeet', symbol: 'YEET', decimals: 9, usdPrice: 1 }] }));
@@ -108,7 +125,7 @@ test('indexed curve chart and source filters do not mistake migration for gradua
   await page.goto('/');
   await page.locator('[data-mode="live"]').click();
   await expect(page.locator('.coin')).toHaveCount(2);
-  await page.locator('[data-category="YeetNest"]').click();
+  await page.locator('[data-category="MemePop"]').click();
   await expect(page.locator('.coin')).toHaveCount(0);
   await page.locator('[data-category="LaunchLab"]').click();
   await expect(page.locator('.coin')).toHaveCount(2);
@@ -124,7 +141,7 @@ test('indexed curve chart and source filters do not mistake migration for gradua
 test('creator artwork persists, can be changed, and demo funds are accounted for', async ({ page }) => {
   const errors = []; page.on('pageerror', e => errors.push(e.message));
   await page.goto('/');
-  await expect(page).toHaveTitle(/YeetNest/);
+  await expect(page).toHaveTitle(/MemePop/);
   await expect(page.locator('.coin')).toHaveCount(8);
   await page.locator('#wallet').click(); await page.locator('#demo').click();
   await page.locator('[data-launch]').first().click();

diff --git a/src/market-ui.js b/src/market-ui.js
@@ -36,7 +36,7 @@ export function installMarketUI(context) {
   }
   if (page === 'Integrations') {
     document.querySelector('.parity h2').textContent = 'Pump.fun feature coverage';
-    document.querySelector('.parity p').textContent = 'YeetNest uses Raydium, not Pump contracts. Funded launch, trading and claim acceptance remain unverified.';
+    document.querySelector('.parity p').textContent = 'MemePop uses Raydium, not Pump contracts. Funded launch, trading and claim acceptance remain unverified.';
     document.querySelector('.parity tbody').innerHTML = pumpFeatures.map(([name, status, remaining]) => `<tr><td>${esc(name)}</td><td><span class="status-pill ${status === 'Not implemented' || status === 'Demo only' ? 'pending' : ''}">${status}</span></td><td>${esc(remaining)}</td></tr>`).join('');
     const source = document.querySelector('.parity .source-link');
     source.href = 'https://github.com/pump-fun/pump-public-docs';
@@ -44,7 +44,7 @@ export function installMarketUI(context) {
     document.querySelector('.parity').insertAdjacentHTML('beforeend', '<a class="source-link" href="/launchpad-roadmap.txt" target="_blank" rel="noopener noreferrer">Implementation checklist</a>');
   }
   if (page === 'Terminal') {
-    content.innerHTML = `<div class="heading"><div><div class="eyebrow">${mode === 'demo' ? 'DEMO MARKET' : 'LOADED YEETNEST POOLS'}</div><h1>Terminal</h1></div><label class="terminal-search">${icon('search')}<input aria-label="Search terminal" placeholder="Search coins" /></label></div><div class="terminal-board"></div>`;
+    content.innerHTML = `<div class="heading"><div><div class="eyebrow">${mode === 'demo' ? 'DEMO MARKET' : 'LOADED MEMEPOP POOLS'}</div><h1>Terminal</h1></div><label class="terminal-search">${icon('search')}<input aria-label="Search terminal" placeholder="Search coins" /></label></div><div class="terminal-board"></div>`;
     const renderBoard = () => {
       const query = content.querySelector('input').value.trim().toLowerCase();
       const available = coins.filter(c => `${c.name} ${c.ticker} ${c.mint || ''}`.toLowerCase().includes(query));

diff --git a/index.html b/index.html
@@ -1,1 +1,1 @@
-<!doctype html><html lang="en"><head><meta charset="UTF-8"/><meta name="viewport" content="width=device-width, initial-scale=1.0"/><meta name="theme-color" content="#f5f5f2"/><title>YeetNest | Where memes take flight</title><link rel="stylesheet" href="/src/style.css"/></head><body><div id="app"></div><script type="module" src="/src/main.js"></script></body></html>
+<!doctype html><html lang="en"><head><meta charset="UTF-8"/><meta name="viewport" content="width=device-width, initial-scale=1.0"/><meta name="theme-color" content="#111216"/><title>MemePop | Meme coin launchpad</title><link rel="icon" type="image/png" href="/logo.png"/><link rel="stylesheet" href="/src/style.css"/></head><body><div id="app"></div><script type="module" src="/src/main.js"></script></body></html>

diff --git a/server/index.js b/server/index.js
@@ -32,7 +32,7 @@ app.get('/readyz', async (req, res) => {
 app.use(api);
 app.use(express.static('dist'));
 const server = app.listen(port, '0.0.0.0', () => {
-  console.log(`YeetNest is running at http://localhost:${port}`);
+  console.log(`MemePop is running at http://localhost:${port}`);
 });
 function shutdown() {
   if (stopping) return;

diff --git a/src/launchpad-ui.js b/src/launchpad-ui.js
@@ -134,7 +134,7 @@ async function setupForm({ esc, toast, reload }) {
       ["PINATA_JWT", "Pinata JWT", "password", "Public IPFS uploads"],
       [
         "PUBLIC_BASE_URL",
-        "Public YeetNest URL",
+        "Public MemePop URL",
         "url",
         "https://your-yeetnest-domain.com",
       ],
